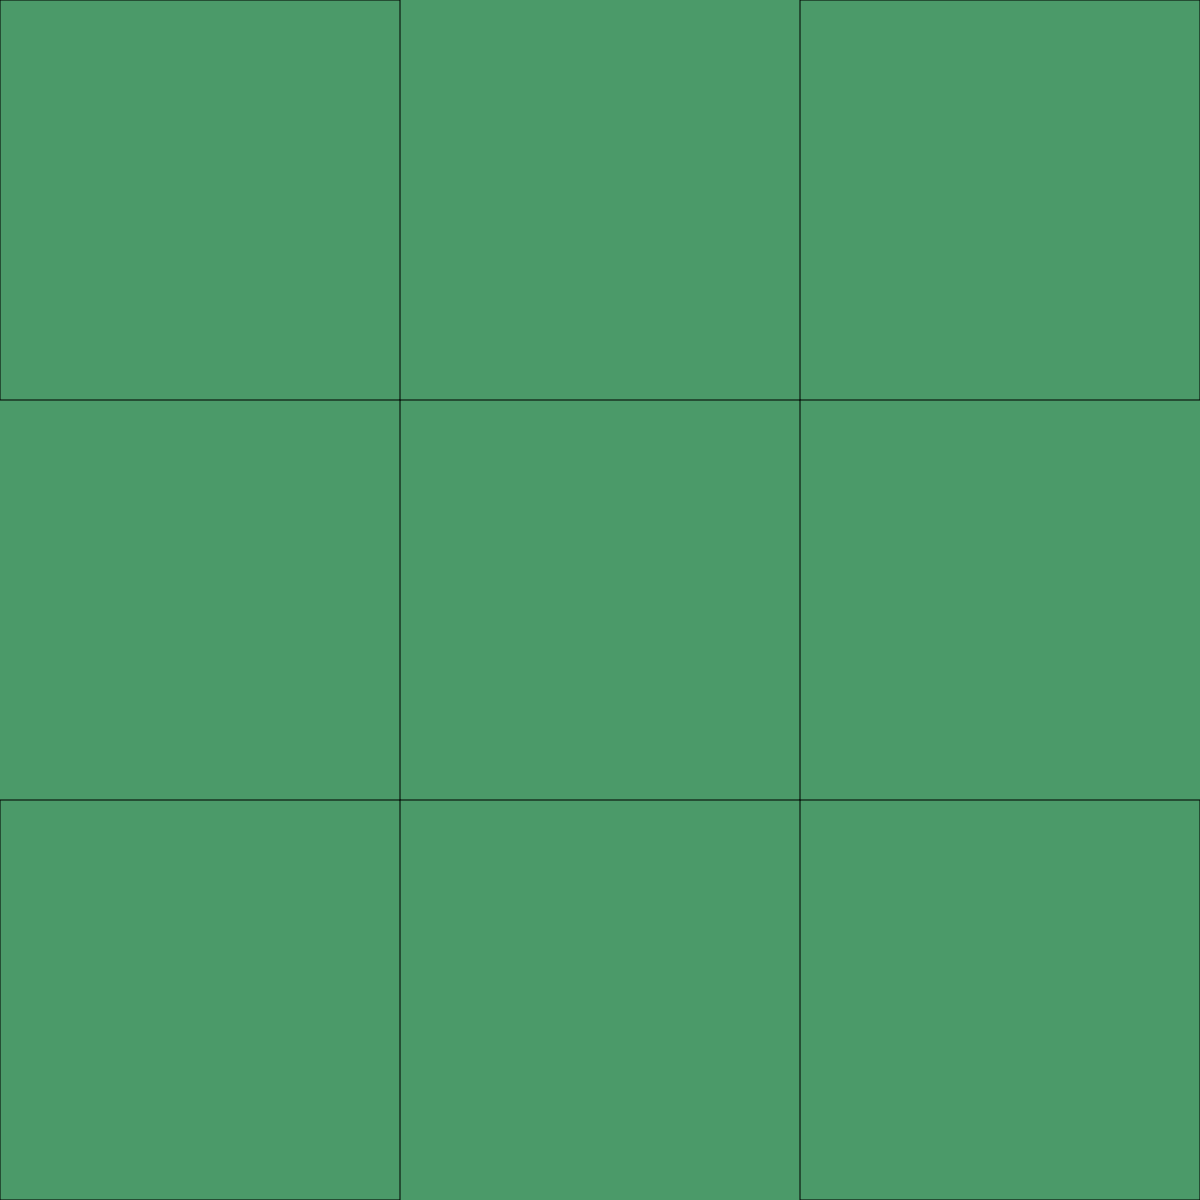
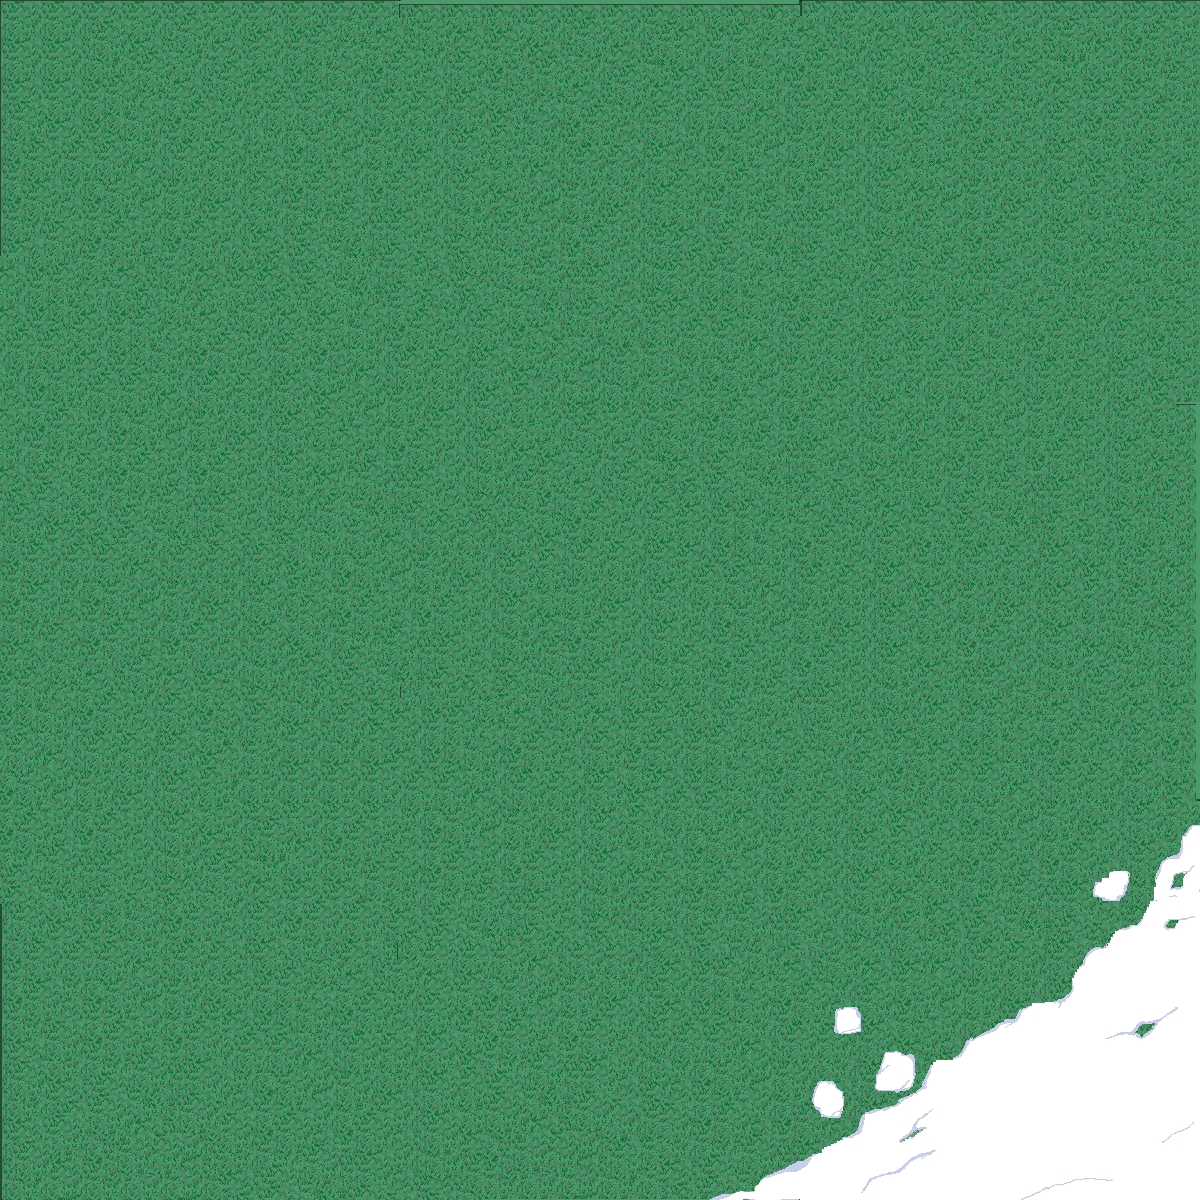
full textured map

Changed region(s): [[0.0, 0.0, 1.0, 1.0]]

diff --git a/gui_test.py b/gui_test.py
@@ -14,14 +14,14 @@ PAD = 4
 # Set fonts
 pygame.font.init()
 FONT_SIZE = 16
-BIG_FONT_SIZE = 42
+BIG_FONT_SIZE = 18
 FONT = pygame.font.SysFont("Arial", FONT_SIZE)
 BIG_FONT = pygame.font.SysFont("Arial", BIG_FONT_SIZE)
 FONT_COLOUR = (0, 0, 0)
 
 # Colour stuff
 GUI_COLOUR = (150, 150, 150)
-OUTLINE_COLOUR = (50, 50, 50)
+OUTLINE_COLOUR = (255, 255, 255)
 BUTTON_HIGHLIGHT_COLOUR = (255, 255, 255)
 BUTTON_DISABLED_COLOUR = (64, 64, 64)
 
@@ -59,7 +59,7 @@ class GUI(LayeredUpdates):
                                     MAP_WIDTH,
                                     screen_rect.h)
 
-        self.map = pygame.image.load("images/gamemap_test.png").convert()
+        self.map = pygame.image.load("images/gamemap.png").convert()
 
         #Set up GUI
         self.buttons = [
@@ -143,22 +143,88 @@ class GUI(LayeredUpdates):
         pygame.draw.rect(self.screen, OUTLINE_COLOUR, outlineRect, 2)
 
         # display player stats
-        player_name = FONT.render("Gus", True, FONT_COLOUR)
+        player_name = BIG_FONT.render("Gus", True, FONT_COLOUR)
         self.screen.blit(player_name,
                          (self.gui_rect.centerx - (player_name.get_width()/2),
-                          FONT_SIZE*line_num))
-
+                          BIG_FONT_SIZE*line_num + PAD))
+        #update number or bar graphic
+        line_num += 1
+        player_health = FONT.render("Health", True, FONT_COLOUR)
+        self.screen.blit(player_health,
+                         (self.gui_rect.left + PAD,
+                          FONT_SIZE*line_num + PAD))
+        #update number or bar graphic
+        line_num += 1
+        player_hunger = FONT.render("Hunger", True, FONT_COLOUR)
+        self.screen.blit(player_hunger,
+                         (self.gui_rect.left + PAD,
+                          FONT_SIZE*line_num + PAD))
+        #update number or bar graphic
+        line_num += 1
+        player_stamina = FONT.render("Stamina", True, FONT_COLOUR)
+        self.screen.blit(player_stamina,
+                         (self.gui_rect.left + PAD,
+                          FONT_SIZE*line_num + PAD))
+        line_num += 2
+        
+        #divider
+        pygame.draw.line(self.screen, OUTLINE_COLOUR, (self.gui_rect.left, FONT_SIZE*line_num), (self.gui_rect.right, FONT_SIZE*line_num))
+        
+        #inventory box
+        
+        #buttons
+        
         # update screen
         pygame.display.flip()
 
+def draw_gui_button(self, button, startpos):
+        """
+        Renders a button to the bar.
+        If the mouse is hovering over the button it is rendered in white,
+        else rgb(50, 50, 50).
+        """
+        
+        # Gotta figure out the button rect dimensions
+        # but_rect = pygame.Rect()
+        
+        # The outline needs a slightly smaller rectangle
+        but_out_rect = but_rect
+        but_out_rect.width -= 1
+
+        # Determine the button color
+        but_color = BAR_COLOR
+        
+        # The button can't be used
+        if button.condition and not button.condition():
+            but_color = BUTTON_DISABLED_COLOR
+        else:
+            # The button can be used
+            mouse_pos = pygame.mouse.get_pos()
+            if but_rect.collidepoint(mouse_pos):
+                # Highlight on mouse over
+                but_color = BUTTON_HIGHLIGHT_COLOR
+        
+        # Draw the button
+        pygame.draw.rect(self.screen, but_color, but_rect)
+            
+        # Draw the outline
+        pygame.draw.rect(self.screen, OUTLINE_COLOR, but_out_rect, 2)
+
+        # Draw the text
+        but_text = FONT.render(button.text, True, FONT_COLOR)
+        self.screen.blit(
+            but_text,
+            (self.bar_rect.centerx - (but_text.get_width()/2),
+            but_rect.y + (BUTTON_HEIGHT//2) - but_text.get_height()//2))
+
 screen = pygame.display.set_mode((600,400))
 pygame.init()
-background = pygame.image.load("images/gamemap_test.png").convert()
+#background = pygame.image.load("images/gamemap_test.png").convert()
 main_gui = GUI(RESOLUTION)
 while 1:
     main_gui.draw()
     main_gui.draw_gui()
-    screen.blit(background, (0,0))
+
 
 
 
